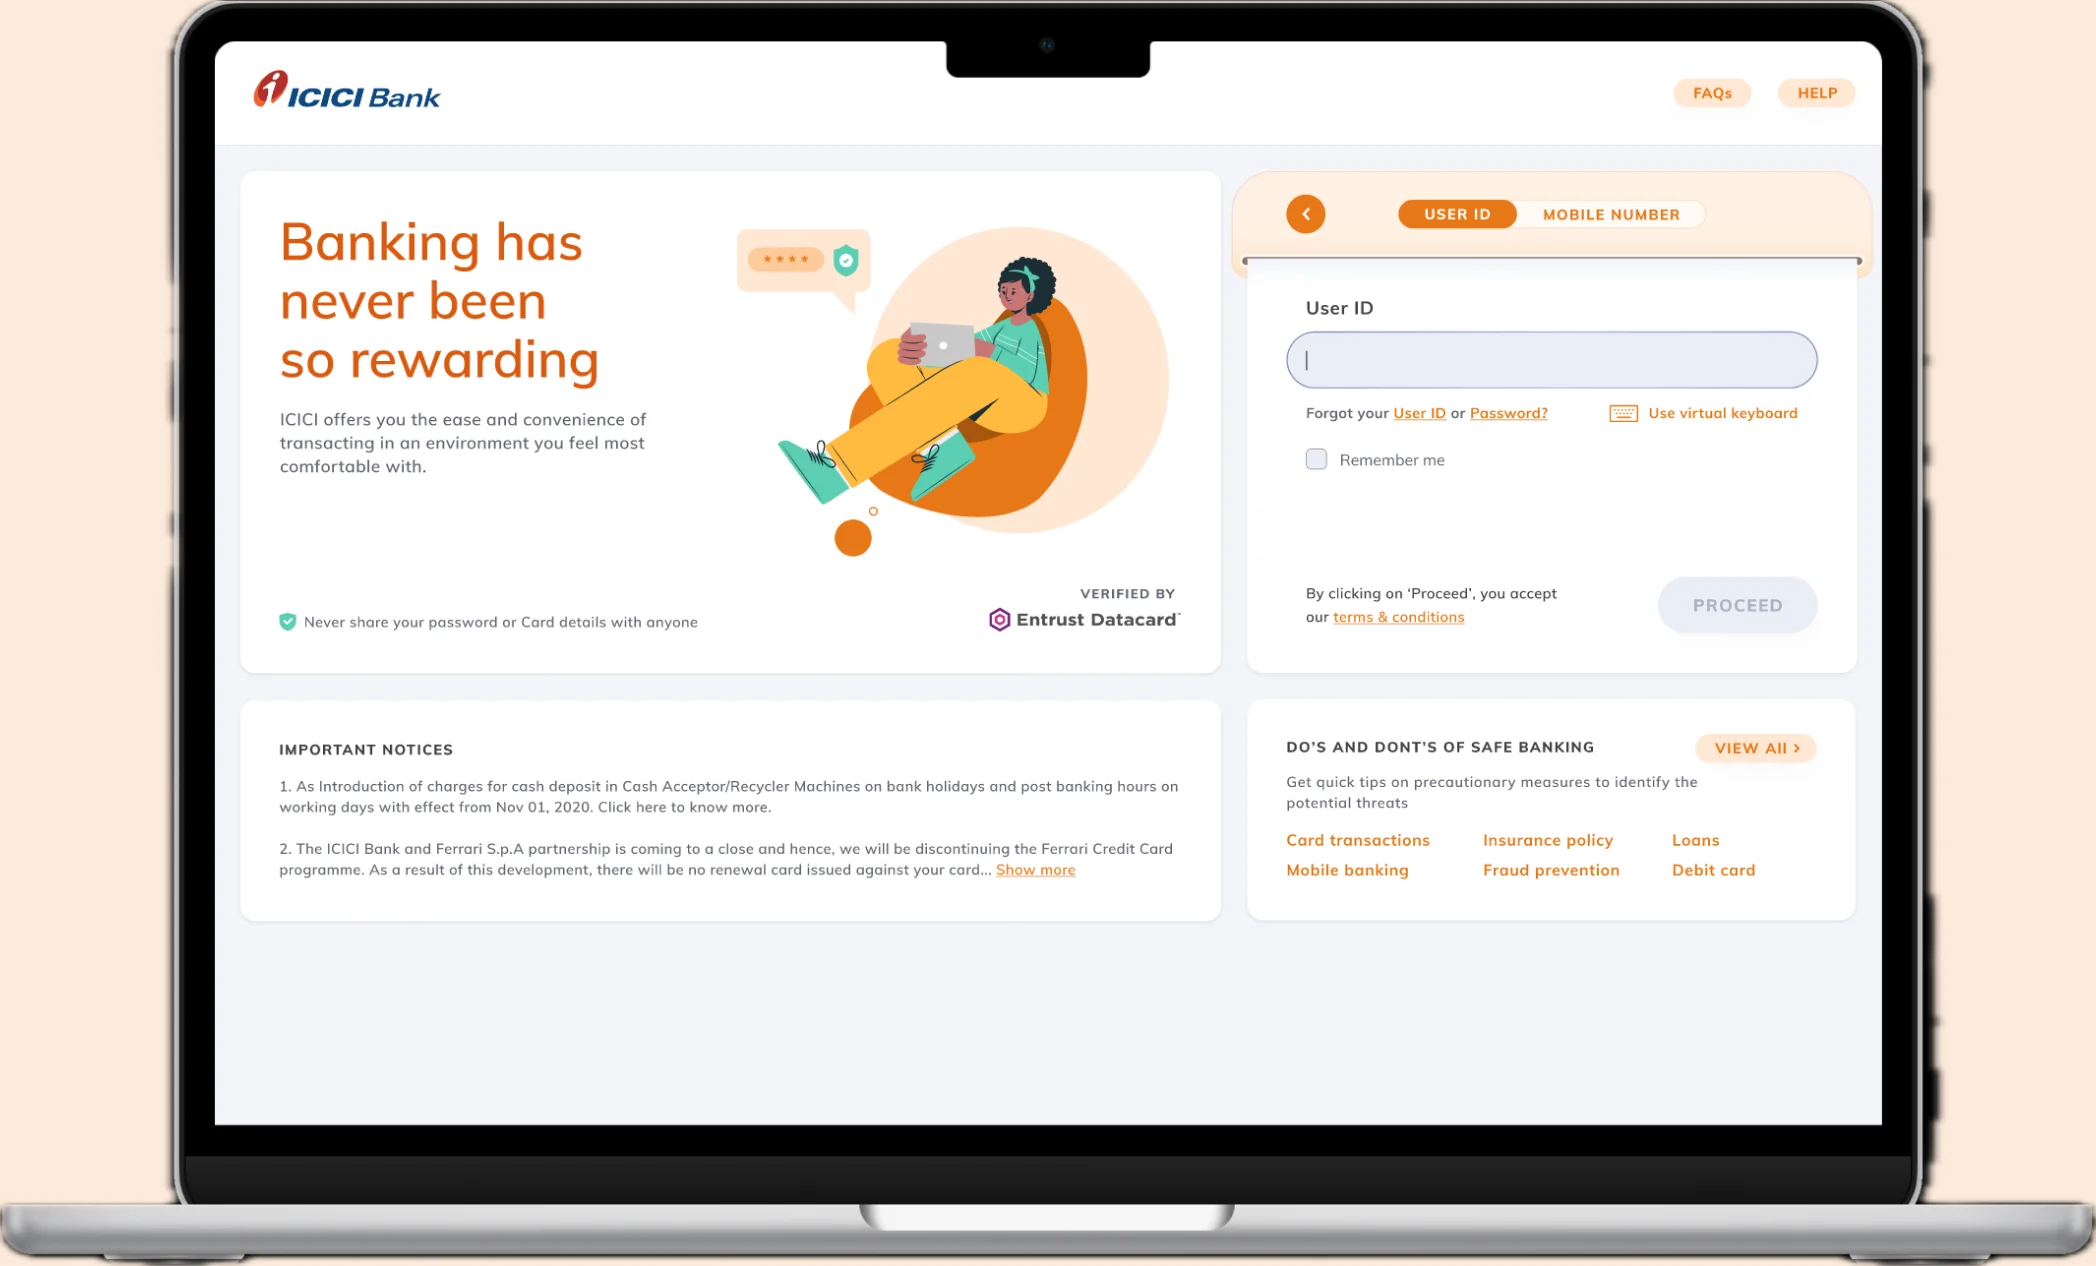
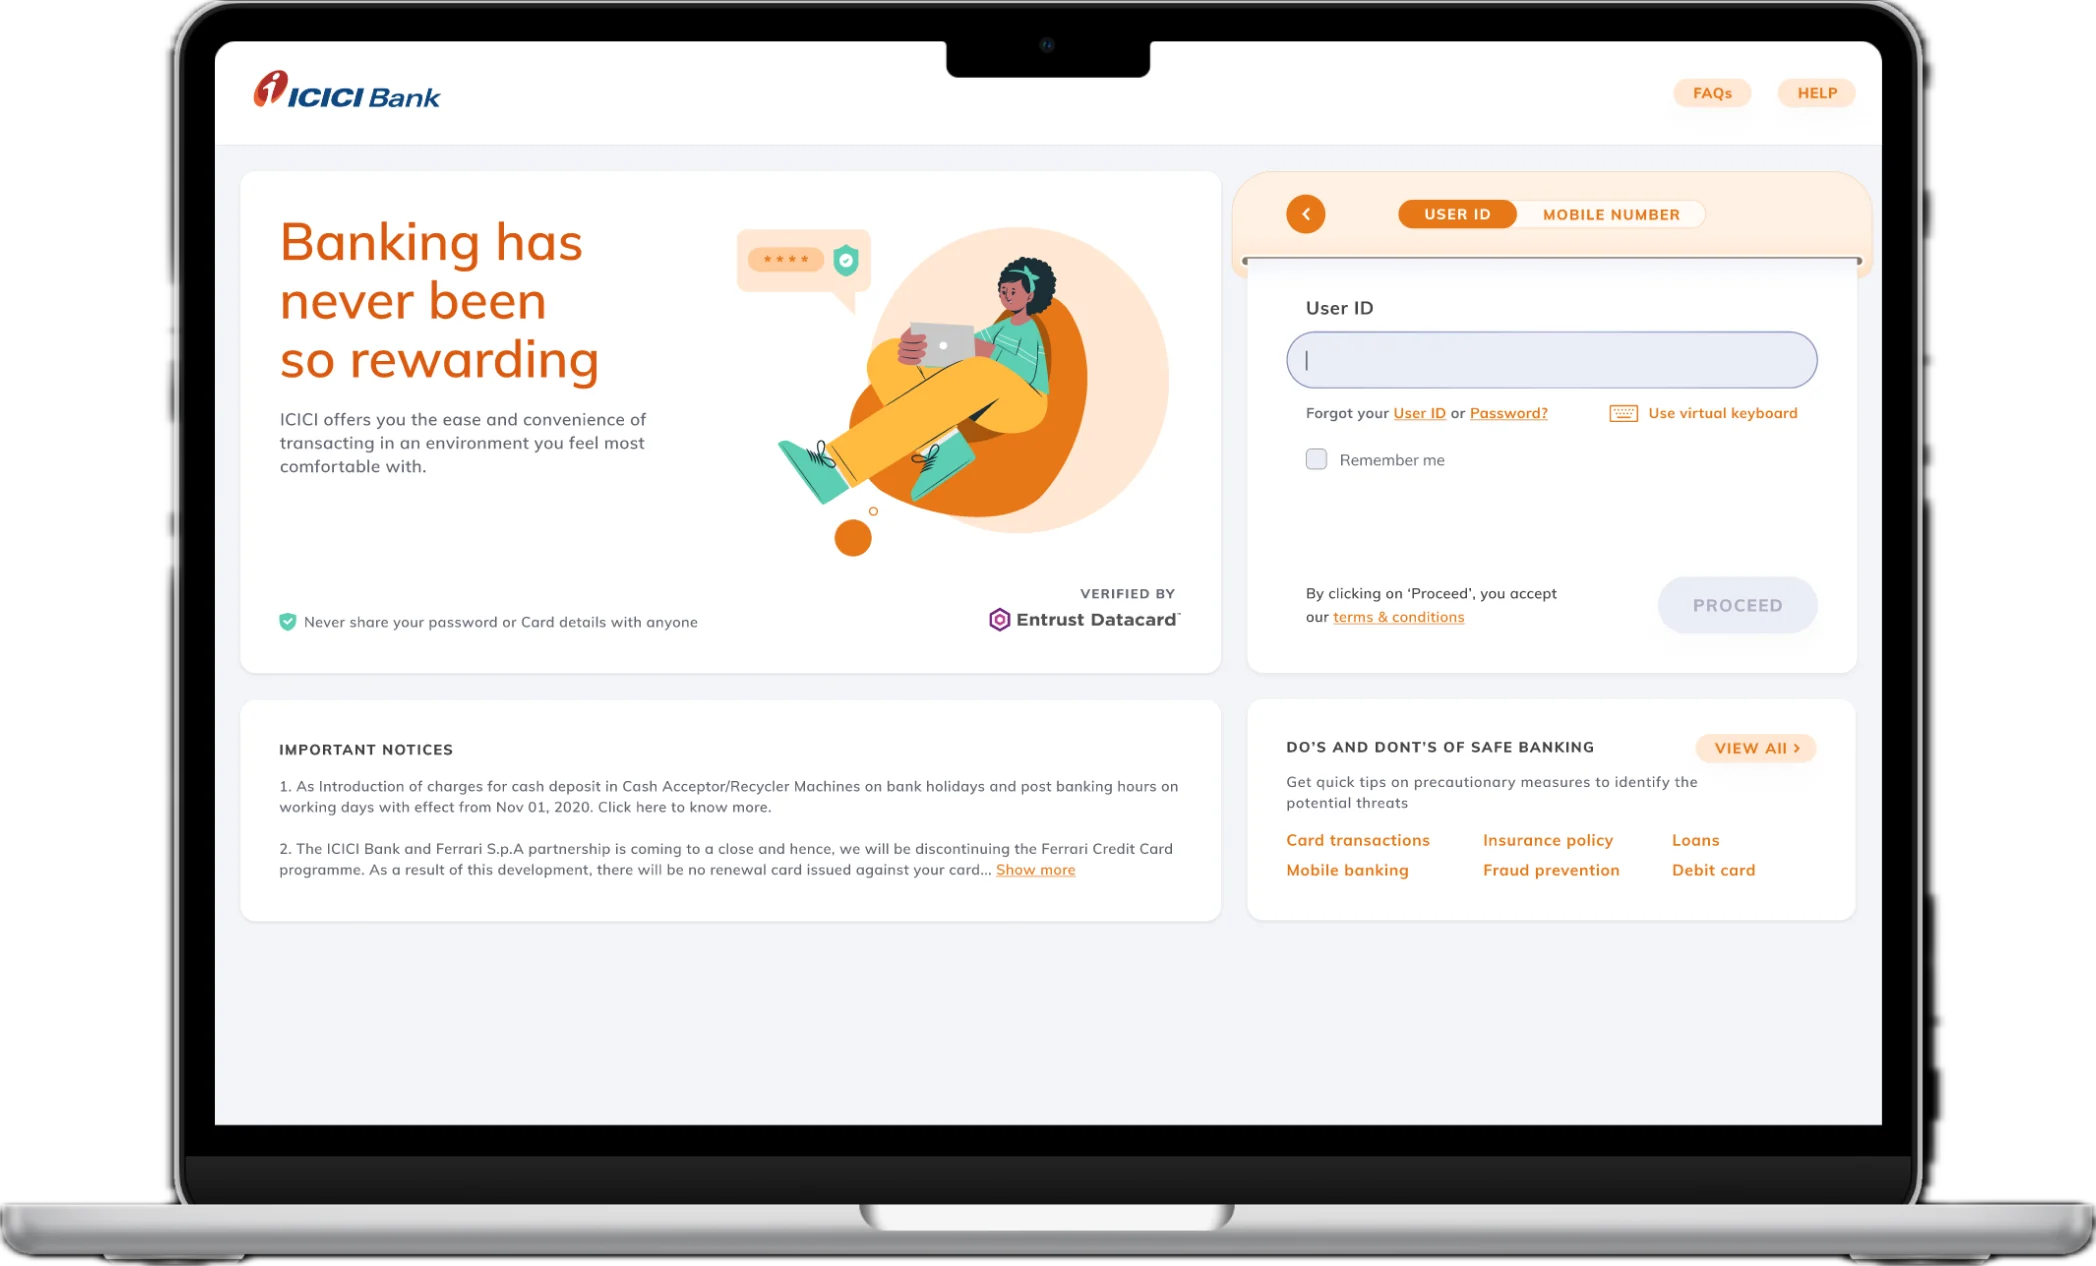
Softer project containers: rounded cards with gentle gradients
Claude-Session: https://claude.ai/code/session_013sX5W7y8abWXoDLnwUTfCs

diff --git a/site/styles.css b/site/styles.css
@@ -419,3 +419,41 @@ h1, h2, h3, .site-head .name { font-family: var(--serif); font-weight: 500; lett
 .intro-side h1.hero-line { max-width: 20ch; }
 /* hero text fills the width beside the photo */
 .intro-side h1.hero-line { max-width: none; font-size: clamp(2.2rem, 5.6vw, 4.9rem); line-height: 1.08; text-wrap: balance; }
+
+/* ---------- Softer project containers: rounded, inset, gentle gradients ---------- */
+.slab {
+  width: auto; margin: clamp(16px, 2.5vw, 28px) 0 0; border-radius: clamp(20px, 2.4vw, 32px);
+  padding: clamp(36px, 6vw, 88px) clamp(20px, 5vw, 80px) clamp(40px, 6vw, 80px);
+}
+.slab:first-of-type { margin-top: 0; }
+.slab .feature-meta .kind { background: rgba(255,255,255,.55); border-color: rgba(63,63,63,.22); color: var(--ink-strong); }
+
+.slab-proofroom {
+  --slab-ink: #2F3A38; --slab-muted: #5C6B68; --slab-line: #2F3A38;
+  background:
+    radial-gradient(120% 90% at 0% 0%, #D6EEE7 0%, rgba(214,238,231,0) 60%),
+    radial-gradient(90% 80% at 100% 100%, #DCE6F3 0%, rgba(220,230,243,0) 60%),
+    #EEF3F1;
+}
+.slab-proofroom .shot img { box-shadow: 0 1px 0 rgba(255,255,255,.6) inset, 0 24px 60px rgba(40,70,64,.18); }
+
+.slab-hazedawn {
+  --slab-ink: #4A3426; --slab-muted: #7A5E4C; --slab-line: #4A3426;
+  background:
+    radial-gradient(110% 90% at 100% 0%, #FFD9BF 0%, rgba(255,217,191,0) 60%),
+    radial-gradient(90% 80% at 0% 100%, #FFE9D6 0%, rgba(255,233,214,0) 60%),
+    #FFF4EC;
+}
+.slab-hazedawn .shot.phones img { border-radius: 28px; box-shadow: 0 0 0 1px rgba(74,52,38,.12), 0 20px 50px rgba(120,60,20,.14); }
+
+.slab-icici {
+  --slab-ink: #3F3A4A; --slab-muted: #6C6578; --slab-line: #3F3A4A;
+  background:
+    radial-gradient(110% 90% at 0% 0%, #FBE6D4 0%, rgba(251,230,212,0) 60%),
+    radial-gradient(90% 80% at 100% 100%, #DCEBFA 0%, rgba(220,235,250,0) 60%),
+    #F7F3F1;
+}
+@media (max-width: 760px) {
+  .slab-hazedawn .shot.phones img { border-radius: 14px; box-shadow: 0 0 0 1px rgba(74,52,38,.14); }
+}
+.slab + .slab { margin-top: clamp(16px, 2.5vw, 28px); }

diff --git a/site/index.html b/site/index.html
@@ -31,9 +31,9 @@
         <div class="intro-text">
           <h1 class="hero-line">I design products where people and AI make decisions together.</h1>
           <ul class="index" aria-label="Case studies">
-            <li><a href="proofroom.html"><i style="background:#141312"></i>Proofroom</a></li>
-            <li><a href="hazedawn.html"><i style="background:#FF6A13"></i>Hazedawn</a></li>
-            <li><a href="icici.html"><i style="background:#FBEADA"></i>ICICI Bank</a></li>
+            <li><a href="proofroom.html"><i style="background:linear-gradient(135deg,#D6EEE7,#DCE6F3)"></i>Proofroom</a></li>
+            <li><a href="hazedawn.html"><i style="background:linear-gradient(135deg,#FFD9BF,#FFE9D6)"></i>Hazedawn</a></li>
+            <li><a href="icici.html"><i style="background:linear-gradient(135deg,#FBE6D4,#DCEBFA)"></i>ICICI Bank</a></li>
           </ul>
         </div>
       </section>
